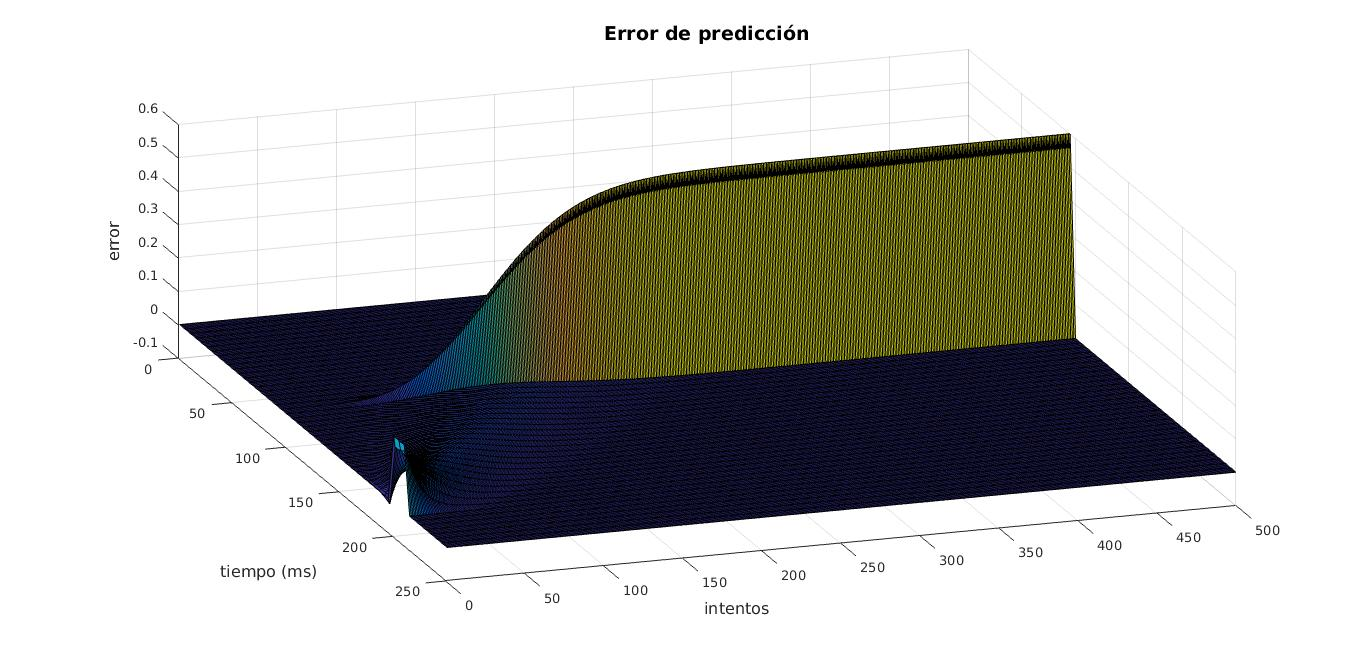
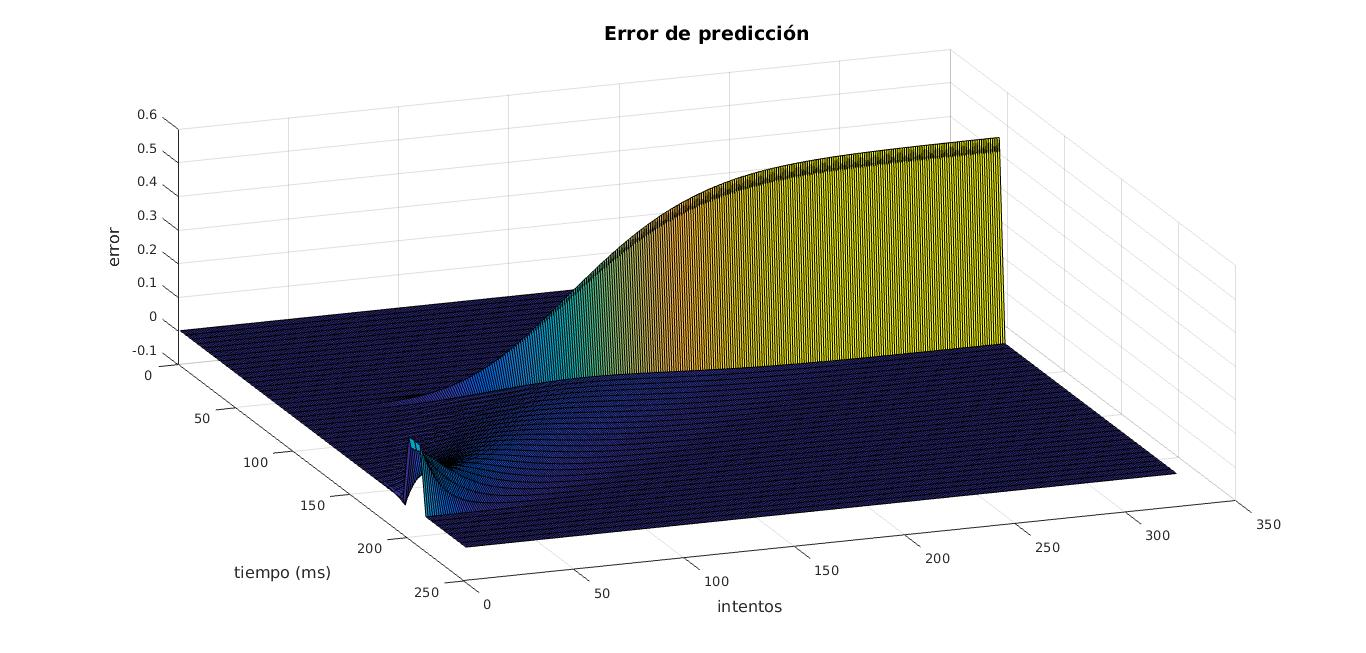
code works everywhere now

diff --git a/ej3.m b/ej3.m
@@ -1,16 +1,16 @@
-function [v,d,w,ur,firstv] = ej3()
+function [v,d,w,ur,firstv,k] = ej3()
 
 
 	v = zeros(1,52);
 	ur = zeros(1,51);
 	w = zeros(1,51);
 	d = zeros(51,1);
-
+    firstv = zeros(1,52);
 	epsilon = 0.2;
-	lambda = 0.99;
+	lambda = 0.1;
 	k=0;
-do
-	k++;
+while(k<=1 || norm(d(:,k)-d(:,k-1))>1e-5)
+	k=k+1;
 	for t = 2:51
 		ur(t) = lambda * ur(t-1) + (1-lambda) * u(t);
 		v(t) = w(1:t) * u(t:-1:1)';
@@ -20,7 +20,7 @@ do
 	if k==1
 		firstv = v;
 	end
-until(k>1 & norm(d(:,k)-d(:,k-1))<1e-5)
+end
 
 %surf(5*(1:50),1:tries,d');
 

diff --git a/plotej3.m b/plotej3.m
@@ -1,7 +1,6 @@
 1;
-%graphics_toolkit('gnuplot');
 [v,d,w,ur,firstv,k] = ej3();
-
+k
 x = [0:50] * 5;
 markerSize = 10;
 
